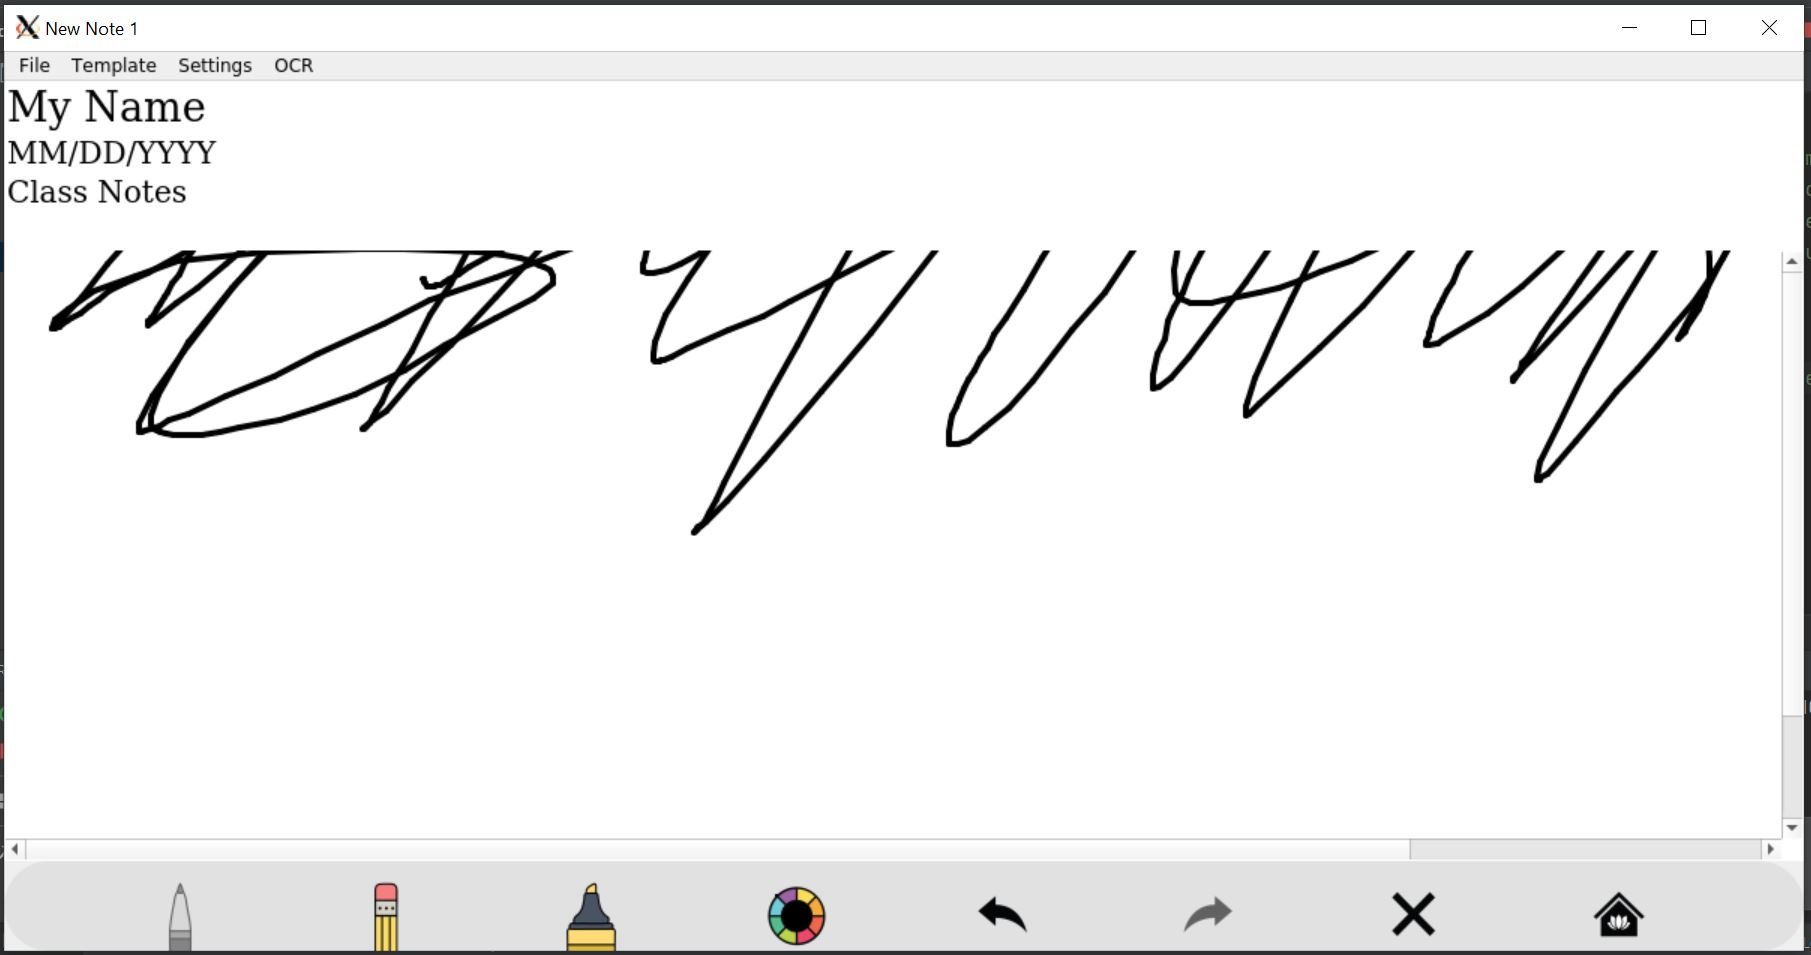
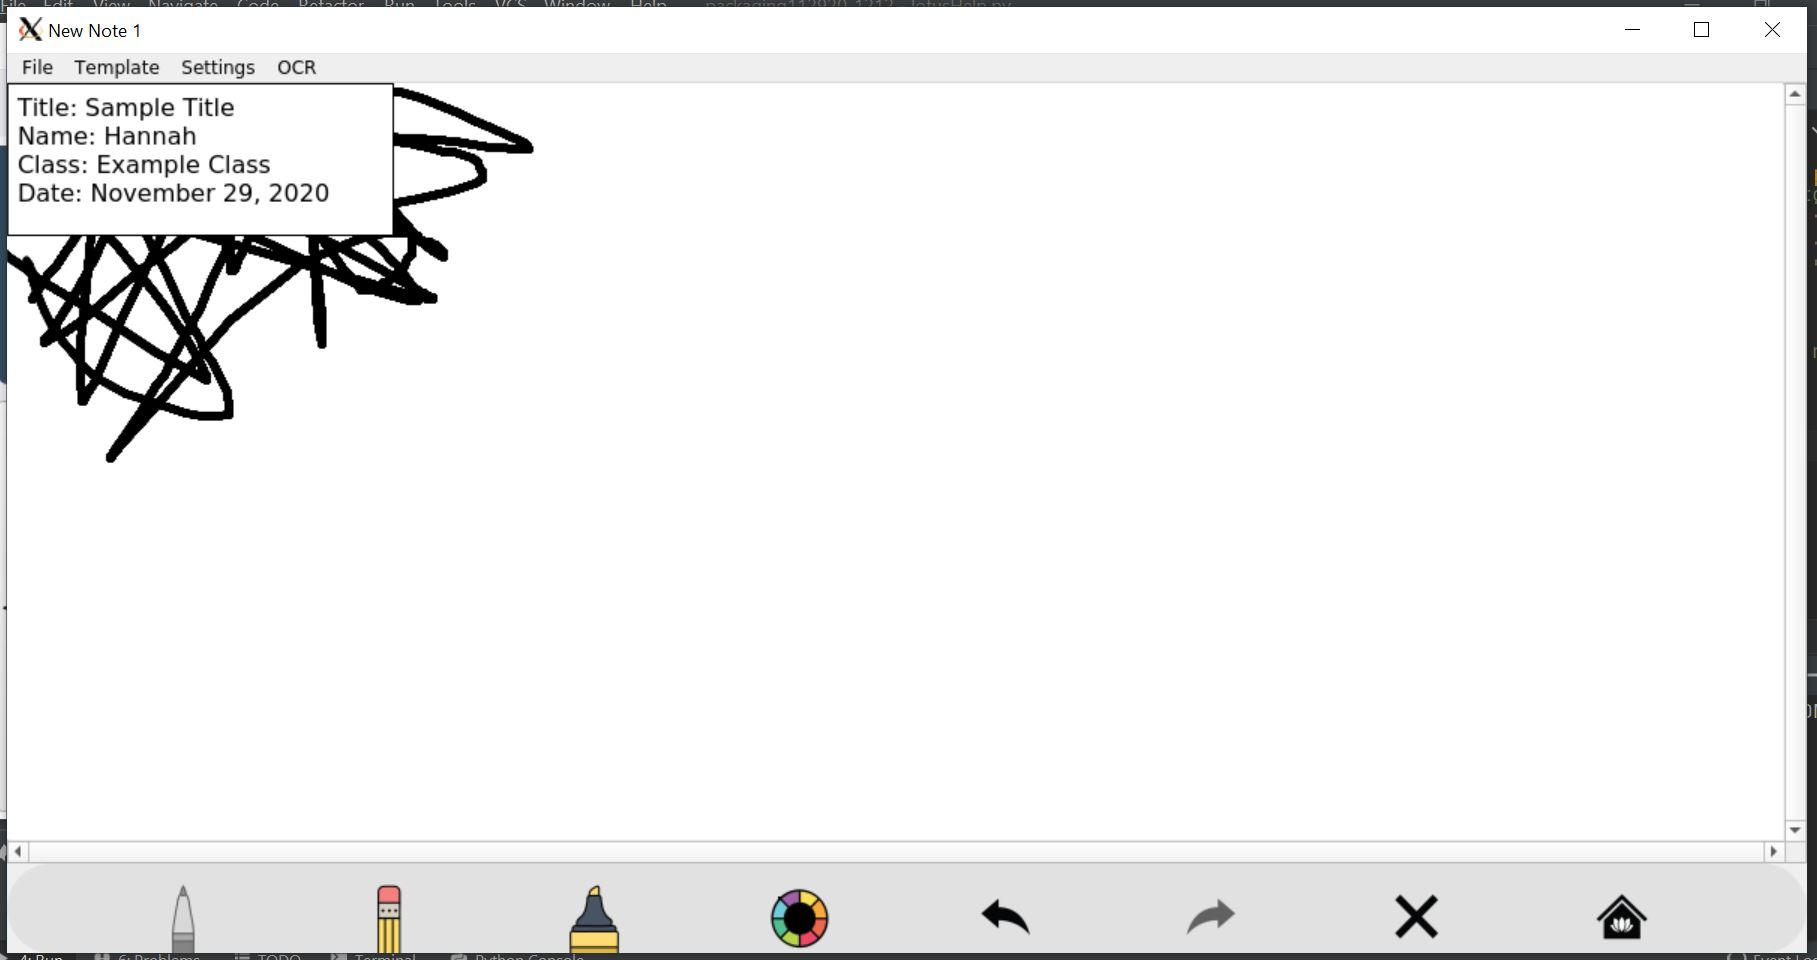
updated help page

diff --git a/src/lotusHelp.py b/src/lotusHelp.py
@@ -90,8 +90,18 @@ class UIHelpWindow(QWidget):
         self.insertImageFunc(assets["help_new_notes_2"], self.cursor)
         self.helpTextEditor.append('\n')
 
-        self.helpTextEditor.append('By clicking in the upper right of the canvas, you can type in a header. Once you finish one line in the header, you can click below that line to type another line. \n')
-        self.insertImageFunc(assets["help_new_notes_3"], self.cursor)
+        self.helpTextEditor.append('By clicking on Template and Add/Edit Heading, you can add a typed header to your notes.\n')
+        self.insertImageFunc(assets["help_new_notes_3.1"], self.cursor)
+        self.helpTextEditor.append('\n')
+
+        self.helpTextEditor.append(
+            'A pop-up window will appear, allowing you to enter a title, as well as add a date and class. The name can also be edited.\n')
+        self.insertImageFunc(assets["help_new_notes_3.2"], self.cursor)
+        self.helpTextEditor.append('\n')
+
+        self.helpTextEditor.append(
+            'Once saved, the header will be displayed.\n')
+        self.insertImageFunc(assets["help_new_notes_3.3"], self.cursor)
         self.helpTextEditor.append('\n')
 
         self.helpTextEditor.append('The header is useful since it cannot be written over while taking notes. \n')
@@ -108,7 +118,7 @@ class UIHelpWindow(QWidget):
         self.helpTextEditor.append('\n')
 
         self.helpTextEditor.append('Your notes can also be converted into a .txt text file by clicking under the OCR tab at the top of the window.'
-                                   'This process, which is in beta, will only recognize very neatly drawn handwriting, so please use with this in mind. \n')
+                                   ' This process, which is in beta, will only recognize very neatly drawn handwriting, so please use with this in mind. \n')
         self.insertImageFunc(assets["help_new_notes_7"], self.cursor)
         self.helpTextEditor.append('\n')
 
@@ -136,10 +146,15 @@ class UIHelpWindow(QWidget):
         self.helpTextEditor.append('\n')
 
         self.helpTextEditor.append(
-            'By clicking on the Previous Notes button, a new window will appear which will display all of the notes created by clicking the New Notes button and saving the canvas.\n')
+            'By clicking on the Previous Notes button, a new window will appear which will display all of the notes created.\n')
         self.insertImageFunc(assets["help_previous_notes_1"], self.cursor)
         self.helpTextEditor.append('\n')
 
+        self.helpTextEditor.append(
+            'By clicking under associated tab, you will see previews of any related prior notes, which can be clicked on to re-open it as editable in the notes editing window.\n')
+        self.insertImageFunc(assets["help_previous_notes_2"], self.cursor)
+        self.helpTextEditor.append('\n')
+        
         # Schedule Section
         self.helpTextEditor.setCurrentFont(QFont('Lato'))
         self.helpTextEditor.setFontUnderline(True)

diff --git a/src/constants.py b/src/constants.py
@@ -34,7 +34,9 @@ assets = {
     "help_lotus_home": os.path.join(os.path.abspath(os.path.dirname(__file__)), 'assets/help_lotus_home.jpg'),
     "help_new_notes_1": os.path.join(os.path.abspath(os.path.dirname(__file__)), 'assets/help_new_notes_1.jpg'),
     "help_new_notes_2": os.path.join(os.path.abspath(os.path.dirname(__file__)), 'assets/help_new_notes_2.jpg'),
-    "help_new_notes_3": os.path.join(os.path.abspath(os.path.dirname(__file__)), 'assets/help_new_notes_3.jpg'),
+    "help_new_notes_3.1": os.path.join(os.path.abspath(os.path.dirname(__file__)), 'assets/help_new_notes_3.1.jpg'),
+    "help_new_notes_3.2": os.path.join(os.path.abspath(os.path.dirname(__file__)), 'assets/help_new_notes_3.2.jpg'),
+    "help_new_notes_3.3": os.path.join(os.path.abspath(os.path.dirname(__file__)), 'assets/help_new_notes_3.3.jpg'),
     "help_new_notes_4": os.path.join(os.path.abspath(os.path.dirname(__file__)), 'assets/help_new_notes_4.jpg'),
     "help_new_notes_5": os.path.join(os.path.abspath(os.path.dirname(__file__)), 'assets/help_new_notes_5.jpg'),
     "help_new_notes_6": os.path.join(os.path.abspath(os.path.dirname(__file__)), 'assets/help_new_notes_6.jpg'),
